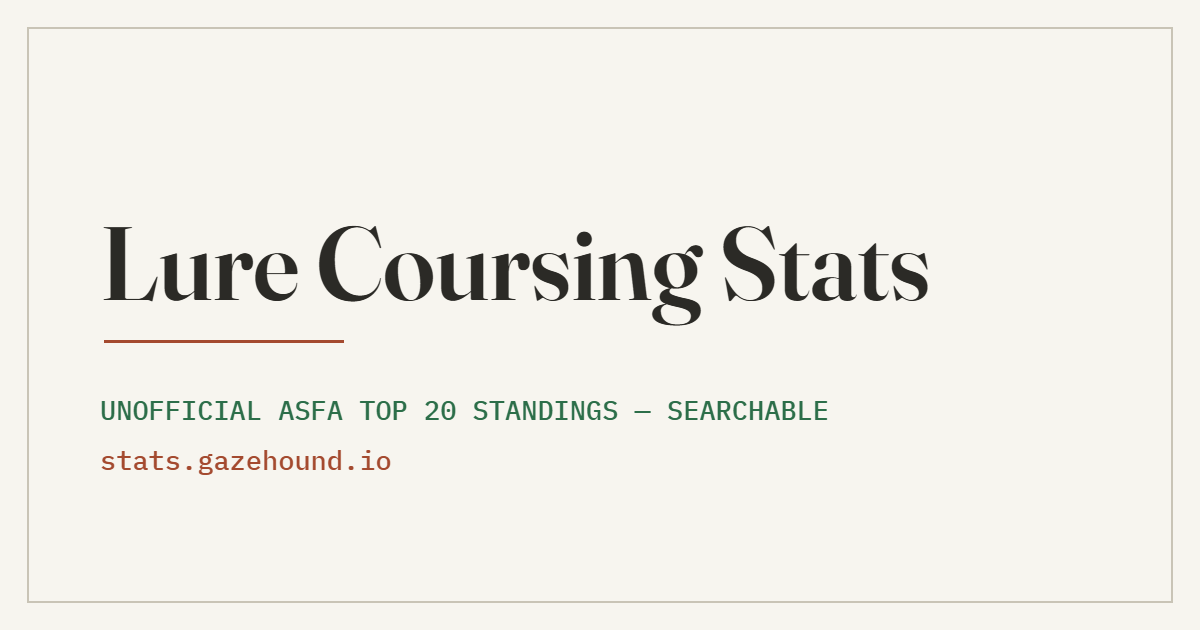
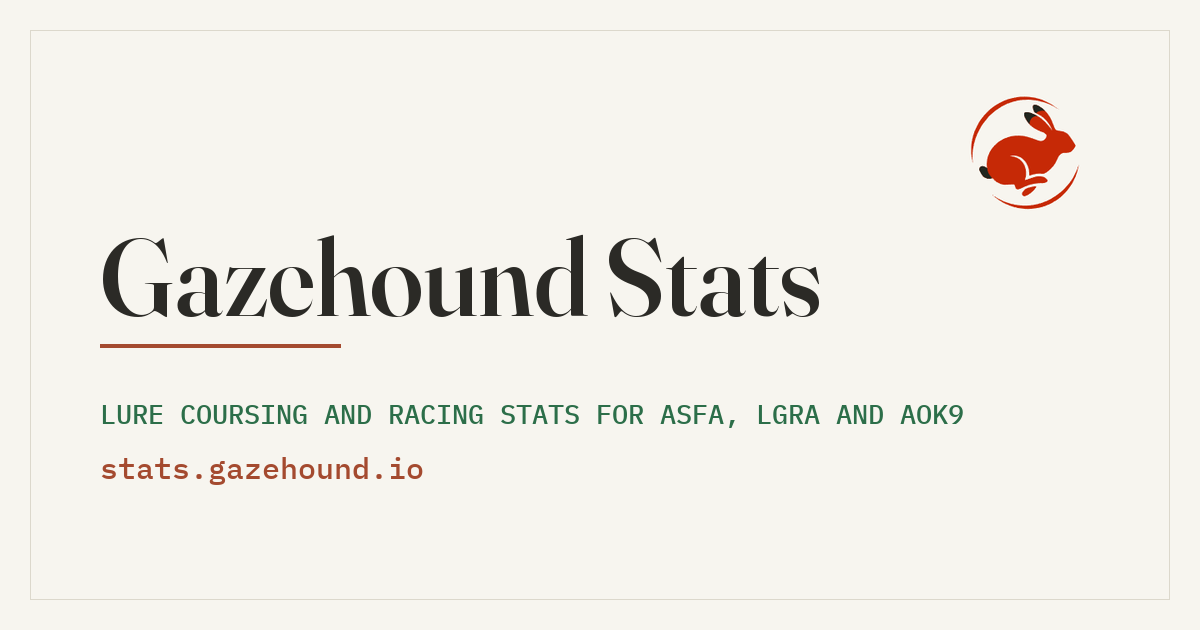
New share image for Gazehound Stats
The og.png card still said Lure Coursing Stats. Redrawn in the site's
own fonts and colours with the Jackrabbit mark, and the og:image URLs
carry ?v=2 so Facebook fetches the new file instead of its cache.

diff --git a/bowen.html b/bowen.html
@@ -13,7 +13,7 @@
   <meta property="og:title" content="The Bowen point system — Gazehound Stats">
   <meta property="og:description" content="How ASFA's Bowen system scores a hound for the Top 20: one point for placing plus one for each hound defeated, with a calculator and the rules for flights, Best of Breed, ties and invalid entries.">
   <meta property="og:url" content="https://stats.gazehound.io/bowen.html">
-  <meta property="og:image" content="https://stats.gazehound.io/assets/og.png">
+  <meta property="og:image" content="https://stats.gazehound.io/assets/og.png?v=2">
   <meta property="og:image:width" content="1200">
   <meta property="og:image:height" content="630">
   <meta name="twitter:card" content="summary_large_image">

diff --git a/asfa.html b/asfa.html
@@ -13,7 +13,7 @@
   <meta property="og:title" content="ASFA lure coursing standings — Gazehound Stats">
   <meta property="og:description" content="Search the ASFA lure coursing Top 20 standings by hound name. Best in Field and Best of Breed leaders, Bowen point totals, breed percentiles, kennel leaderboards. Unofficial fan site.">
   <meta property="og:url" content="https://stats.gazehound.io/asfa.html">
-  <meta property="og:image" content="https://stats.gazehound.io/assets/og.png">
+  <meta property="og:image" content="https://stats.gazehound.io/assets/og.png?v=2">
   <meta property="og:image:width" content="1200">
   <meta property="og:image:height" content="630">
   <meta name="twitter:card" content="summary_large_image">

diff --git a/aok9.html b/aok9.html
@@ -13,7 +13,7 @@
   <meta property="og:title" content="AOK9 sprint racing standings — Gazehound Stats">
   <meta property="og:description" content="AOK9 all-breed sprint racing standings by breed from the grading guide: points this year, career National points, WAVE and grade for every active dog. Unofficial fan site.">
   <meta property="og:url" content="https://stats.gazehound.io/aok9.html">
-  <meta property="og:image" content="https://stats.gazehound.io/assets/og.png">
+  <meta property="og:image" content="https://stats.gazehound.io/assets/og.png?v=2">
   <meta property="og:image:width" content="1200">
   <meta property="og:image:height" content="630">
   <meta name="twitter:card" content="summary_large_image">

diff --git a/rulebooks.html b/rulebooks.html
@@ -13,7 +13,7 @@
   <meta property="og:title" content="Rulebooks — Gazehound Stats">
   <meta property="og:description" content="Where to find ASFA's own documents: the Running Rules and Field Procedures, the LCI rules, the Bowen system, the judges handbook, and the standings and results this site is built from.">
   <meta property="og:url" content="https://stats.gazehound.io/rulebooks.html">
-  <meta property="og:image" content="https://stats.gazehound.io/assets/og.png">
+  <meta property="og:image" content="https://stats.gazehound.io/assets/og.png?v=2">
   <meta property="og:image:width" content="1200">
   <meta property="og:image:height" content="630">
   <meta name="twitter:card" content="summary_large_image">

diff --git a/titles.html b/titles.html
@@ -13,7 +13,7 @@
   <meta property="og:title" content="New ASFA titles — Gazehound Stats">
   <meta property="og:description" content="Every hound with a new ASFA lure coursing title this season — Field Champions, Lure Courser of Merit and Coursing Proficiency titles, with dates and owners. Unofficial fan site.">
   <meta property="og:url" content="https://stats.gazehound.io/titles.html">
-  <meta property="og:image" content="https://stats.gazehound.io/assets/og.png">
+  <meta property="og:image" content="https://stats.gazehound.io/assets/og.png?v=2">
   <meta property="og:image:width" content="1200">
   <meta property="og:image:height" content="630">
   <meta name="twitter:card" content="summary_large_image">

diff --git a/lgra.html b/lgra.html
@@ -13,7 +13,7 @@
   <meta property="og:title" content="LGRA straight racing standings — Gazehound Stats">
   <meta property="og:description" content="LGRA straight racing standings by breed from the grading guide: National points this year, career points, WAVE and grade for every active hound. Unofficial fan site.">
   <meta property="og:url" content="https://stats.gazehound.io/lgra.html">
-  <meta property="og:image" content="https://stats.gazehound.io/assets/og.png">
+  <meta property="og:image" content="https://stats.gazehound.io/assets/og.png?v=2">
   <meta property="og:image:width" content="1200">
   <meta property="og:image:height" content="630">
   <meta name="twitter:card" content="summary_large_image">

diff --git a/regions.html b/regions.html
@@ -13,7 +13,7 @@
   <meta property="og:title" content="Regions — Gazehound Stats">
   <meta property="og:description" content="ASFA lure coursing by region: Top 20 hounds, Bowen points, Best of Breed and Best in Field per region, plus which regions and clubs are drawing the most trial entries in 2026.">
   <meta property="og:url" content="https://stats.gazehound.io/regions.html">
-  <meta property="og:image" content="https://stats.gazehound.io/assets/og.png">
+  <meta property="og:image" content="https://stats.gazehound.io/assets/og.png?v=2">
   <meta property="og:image:width" content="1200">
   <meta property="og:image:height" content="630">
   <meta name="twitter:card" content="summary_large_image">

diff --git a/lci.html b/lci.html
@@ -13,7 +13,7 @@
   <meta property="og:title" content="LCI divisions — Gazehound Stats">
   <meta property="og:description" content="ASFA Lure Chasing Instinct standings by division — Small, Large and Sighthound Mix — with proficiency points, division standings and LCI, LCA, LCC and LCE titles held.">
   <meta property="og:url" content="https://stats.gazehound.io/lci.html">
-  <meta property="og:image" content="https://stats.gazehound.io/assets/og.png">
+  <meta property="og:image" content="https://stats.gazehound.io/assets/og.png?v=2">
   <meta property="og:image:width" content="1200">
   <meta property="og:image:height" content="630">
   <meta name="twitter:card" content="summary_large_image">

diff --git a/rulebook.html b/rulebook.html
@@ -13,7 +13,7 @@
   <meta property="og:title" content="ASFA Rulebook — Gazehound Stats">
   <meta property="og:description" content="The ASFA Running Rules and Field Procedures for Lure Field Trials, rev. 08/01/2026, in a searchable web format with chapter navigation. Unofficial; asfa.org governs.">
   <meta property="og:url" content="https://stats.gazehound.io/rulebook.html">
-  <meta property="og:image" content="https://stats.gazehound.io/assets/og.png">
+  <meta property="og:image" content="https://stats.gazehound.io/assets/og.png?v=2">
   <meta property="og:image:width" content="1200">
   <meta property="og:image:height" content="630">
   <meta name="twitter:card" content="summary_large_image">

diff --git a/events.html b/events.html
@@ -13,7 +13,7 @@
   <meta property="og:title" content="Find an ASFA Event — Gazehound Stats">
   <meta property="og:description" content="Find an upcoming ASFA lure coursing trial by state, region or month, with premium lists linked at asfa.org. Unofficial; ASFA's published schedule governs.">
   <meta property="og:url" content="https://stats.gazehound.io/events.html">
-  <meta property="og:image" content="https://stats.gazehound.io/assets/og.png">
+  <meta property="og:image" content="https://stats.gazehound.io/assets/og.png?v=2">
   <meta property="og:image:width" content="1200">
   <meta property="og:image:height" content="630">
   <meta name="twitter:card" content="summary_large_image">

diff --git a/leaders.html b/leaders.html
@@ -13,7 +13,7 @@
   <meta property="og:title" content="Season leaders — Gazehound Stats">
   <meta property="og:description" content="Who leads the 2026 ASFA lure coursing season: most Best in Field, most Best of Breed, most Bowen points, and the highest standings within each breed.">
   <meta property="og:url" content="https://stats.gazehound.io/leaders.html">
-  <meta property="og:image" content="https://stats.gazehound.io/assets/og.png">
+  <meta property="og:image" content="https://stats.gazehound.io/assets/og.png?v=2">
   <meta property="og:image:width" content="1200">
   <meta property="og:image:height" content="630">
   <meta name="twitter:card" content="summary_large_image">

diff --git a/about.html b/about.html
@@ -13,7 +13,7 @@
   <meta property="og:title" content="How this is built — Gazehound Stats">
   <meta property="og:description" content="Where the ASFA Top 20 data comes from, what each column means, how standing is calculated, and the limits of what these numbers can tell you.">
   <meta property="og:url" content="https://stats.gazehound.io/about.html">
-  <meta property="og:image" content="https://stats.gazehound.io/assets/og.png">
+  <meta property="og:image" content="https://stats.gazehound.io/assets/og.png?v=2">
   <meta property="og:image:width" content="1200">
   <meta property="og:image:height" content="630">
   <meta name="twitter:card" content="summary_large_image">
